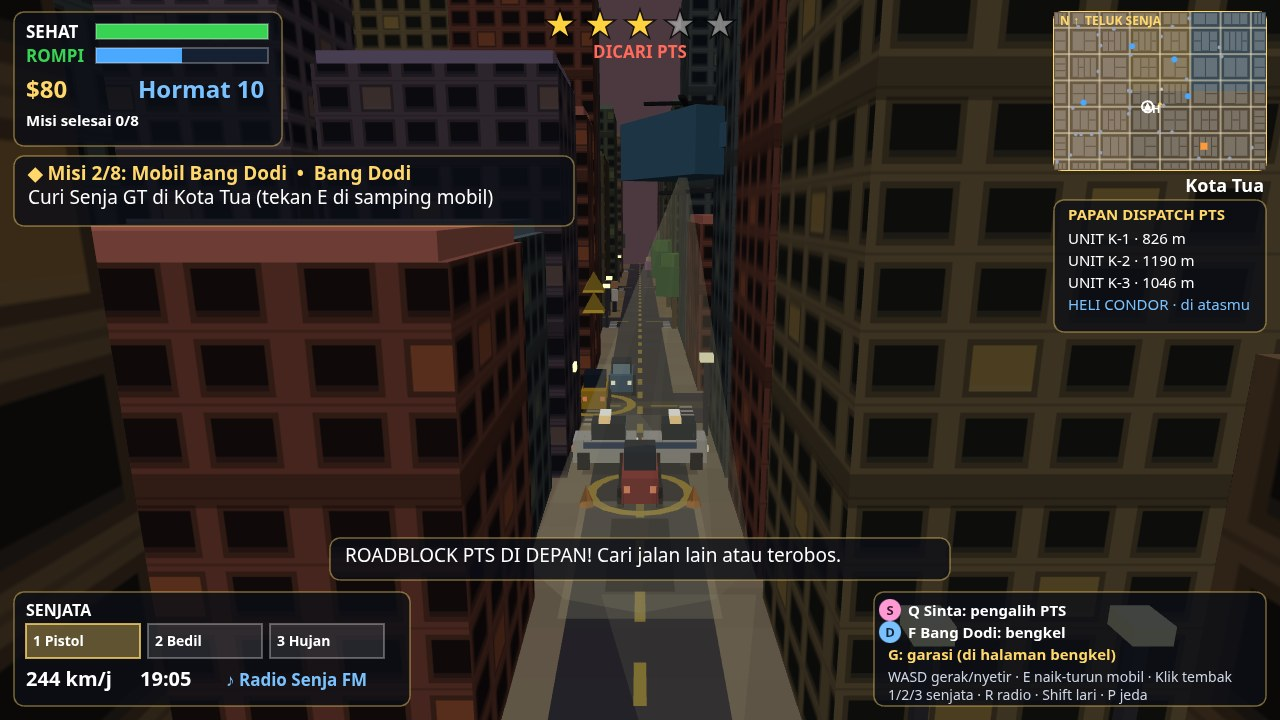
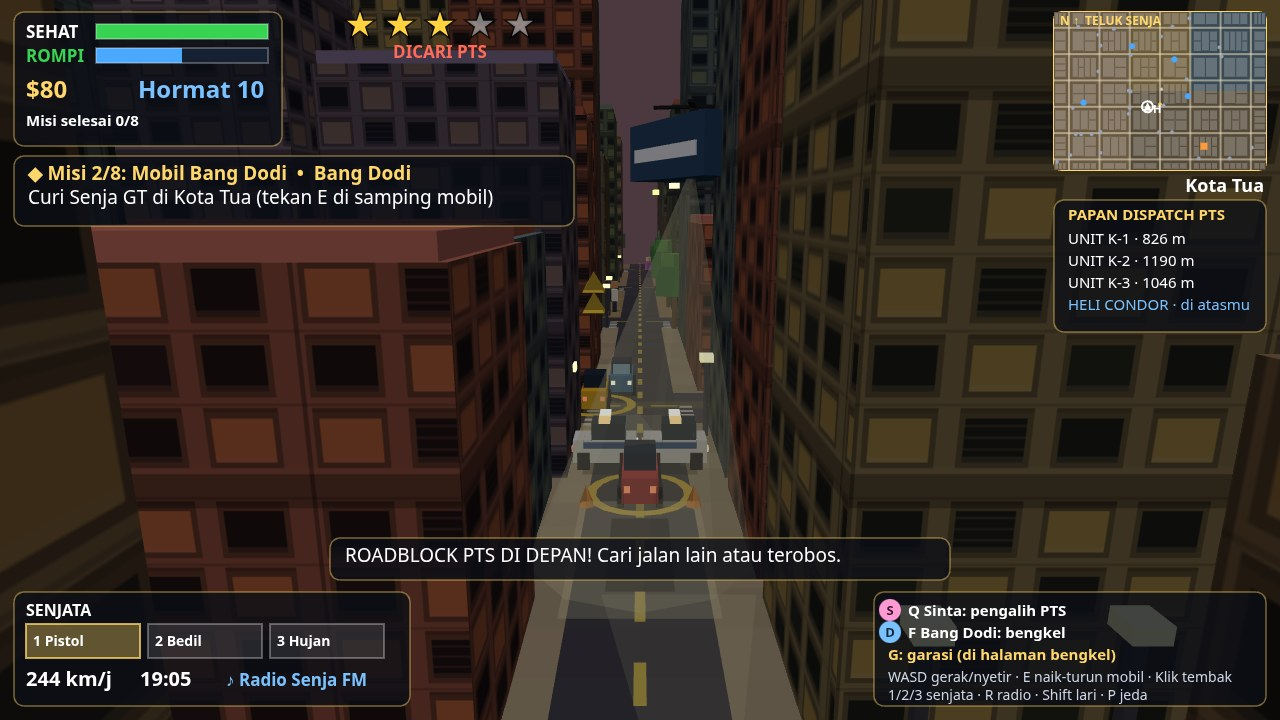
Polish 3: clearer helicopter silhouette, stars clear of heli, guard health bars, facade variety, clean cover staging

diff --git a/game/src/gl3d.js b/game/src/gl3d.js
@@ -250,20 +250,44 @@ function makeFacadeTexture(gl) {
   ctx.fillRect(0, 0, 256, 256);
   // Large windows: 4 columns x 5 rows per tile. One tile spans a wide
   // facade (see Geo.box UV repeats), so windows read at building scale
-  // instead of dissolving into a dot grid.
+  // instead of dissolving into a dot grid. Each pane gets a
+  // deterministic variant — lit in warm or cool tones, blinds, or a
+  // faint tint — so repeated tiles do not look identical.
+  const litTones = ['#ffe9a8', '#bcd9ff', '#ffcf7a'];
   for (let r = 0; r < 5; r++) {
     for (let c = 0; c < 4; c++) {
-      const lit = (c === 1 && r === 1) || (c === 2 && r === 3);
+      const idx = r * 4 + c;
+      const lit = (idx * 7) % 5 < 2;
+      const x0 = 6 + c * 62; const y0 = 4 + r * 48;
       ctx.fillStyle = '#8d867a';
-      ctx.fillRect(6 + c * 62, 4 + r * 48, 48, 38);
-      ctx.fillStyle = lit ? '#ffe9a8' : '#2b313c';
-      ctx.fillRect(10 + c * 62, 8 + r * 48, 40, 30);
+      ctx.fillRect(x0, y0, 48, 38);
+      ctx.fillStyle = lit ? litTones[(idx * 3) % 3] : '#2b313c';
+      ctx.fillRect(x0 + 4, y0 + 4, 40, 30);
+      if (!lit && idx % 4 === 1) {
+        // Blinds: thin dark slats across a dark pane.
+        ctx.fillStyle = 'rgba(255,255,255,0.18)';
+        ctx.fillRect(x0 + 4, y0 + 12, 40, 2);
+        ctx.fillRect(x0 + 4, y0 + 20, 40, 2);
+        ctx.fillRect(x0 + 4, y0 + 28, 40, 2);
+      } else if (!lit && idx % 3 === 0) {
+        ctx.fillStyle = 'rgba(255,255,255,0.07)';
+        ctx.fillRect(x0 + 4, y0 + 4, 40, 30);
+      }
+      // Glass highlight + sill.
       ctx.fillStyle = 'rgba(255,255,255,0.25)';
-      ctx.fillRect(10 + c * 62, 8 + r * 48, 40, 4);
+      ctx.fillRect(x0 + 4, y0 + 4, 40, 4);
+      ctx.fillStyle = '#7a7264';
+      ctx.fillRect(x0, y0 + 38, 48, 3);
     }
     ctx.fillStyle = 'rgba(0,0,0,0.16)';
     ctx.fillRect(0, r * 48 + 46, 256, 2);
   }
+  // Panel division at the tile edge + a cornice band at the top, so
+  // wide facades read as separate panels instead of one flat wall.
+  ctx.fillStyle = 'rgba(0,0,0,0.35)';
+  ctx.fillRect(0, 0, 3, 256);
+  ctx.fillStyle = 'rgba(255,255,255,0.14)';
+  ctx.fillRect(0, 0, 256, 5);
   // Darker ground-floor band.
   ctx.fillStyle = 'rgba(0,0,0,0.28)';
   ctx.fillRect(0, 232, 256, 24);
@@ -343,8 +367,14 @@ function buildStatic(city) {
     geo.box(cx, h3 / 2, cz, w3, h3, d3, 0, tinted, {
       tex: true, uvU: Math.max(1, Math.round(b.w / 130)), uvV: Math.max(1, Math.round((h3 * SCALE) / 130)),
     });
-    // Roof parapet: a thin lighter slab on top.
-    geo.box(cx, h3 + 0.12, cz, w3 * 0.96, 0.24, d3 * 0.96, 0, shade(tinted, 1.25), {});
+    // Roof parapet: a thin slab on top. Its tone varies per building —
+    // some pale, some dark, a third brick-red — so neighbouring
+    // rooftops do not read as one identical trim.
+    const roofH = hash2(b.y | 0, b.x | 0);
+    const parapet = roofH > 0.66
+      ? [0.62 * tint, 0.30 * tint, 0.24 * tint]
+      : shade(tinted, 0.95 + roofH * 0.55);
+    geo.box(cx, h3 + 0.12, cz, w3 * 0.96, 0.24, d3 * 0.96, 0, parapet, {});
   }
   // Props.
   for (const pr of city.props) {
@@ -594,15 +624,25 @@ function drawCharacter(geo, trans, x, y, angle, shirt, skin, opt = {}) {
   geo.box(cx, 0.92 + bob, cz, 0.52, 0.62, 0.3, angle, s, {});
   geo.box(cx, 1.48 + bob, cz, 0.34, 0.34, 0.34, angle, sk, {});
   if (opt.aimAngle !== undefined) {
-    const ax = cx + Math.cos(opt.aimAngle) * 0.42; const az = cz + Math.sin(opt.aimAngle) * 0.42;
-    geo.box(ax, 1.0 + bob, az, 0.42, 0.1, 0.1, opt.aimAngle, [0.12, 0.12, 0.14], {});
+    // A longer, thicker aim arm plus a muzzle tip, so a guard's
+    // weapon reads at chase distance instead of vanishing.
+    const ax = cx + Math.cos(opt.aimAngle) * 0.46; const az = cz + Math.sin(opt.aimAngle) * 0.46;
+    geo.box(ax, 1.0 + bob, az, 0.56, 0.13, 0.13, opt.aimAngle, [0.10, 0.10, 0.12], {});
+    const tx = cx + Math.cos(opt.aimAngle) * 0.78; const tz = cz + Math.sin(opt.aimAngle) * 0.78;
+    geo.box(tx, 1.0 + bob, tz, 0.12, 0.12, 0.12, opt.aimAngle, [0.25, 0.25, 0.28], {});
   }
   if (opt.ring) geo.ring(cx, cz, 0.07, 0.55, 0.72, opt.ring, 0.95);
-  if (opt.healthBar !== undefined && opt.healthBar < 100) {
-    // Health bar floating above the head, facing the camera via billboard.
+  if (opt.healthBar !== undefined) {
+    // Health bar floating above the head, facing the camera via
+    // billboard. Guards always carry a visible bar (it shrinks as
+    // they take damage); a white frame, dark backing, and a bright
+    // fill make it read at chase distance.
     const right = opt.camRight || [1, 0, 0];
-    geo.billboard([cx, 1.95 + bob, cz], 0.8, 0.1, right, [0.35, 0.08, 0.08], 0.95);
-    geo.billboard([cx - (1 - opt.healthBar / 100) * 0.4, 1.95 + bob, cz], 0.8 * (opt.healthBar / 100), 0.1, right, [1, 0.3, 0.25], 0.95);
+    const by = 2.02 + bob;
+    const frac = Math.max(0, Math.min(1, opt.healthBar / 100));
+    geo.billboard([cx, by, cz], 1.24, 0.24, right, [0.95, 0.95, 0.95], 0.95);
+    geo.billboard([cx, by, cz], 1.12, 0.16, right, [0.25, 0.05, 0.05], 0.95);
+    geo.billboard([cx - (1 - frac) * 0.56, by, cz], Math.max(0.02, 1.12 * frac), 0.16, right, [1, 0.28, 0.20], 1);
   }
 }
 
@@ -614,19 +654,42 @@ function drawHelicopter(geo, trans, h, time, camRight) {
   // A bigger body scale makes it read at chase distance.
   const alt = 6.8;
   const k = 1.6; // body scale
-  const body = [0.22, 0.40, 0.52];
-  geo.box(cx, alt, cz, 2.4 * k, 0.85 * k, 1.0 * k, h.angle * 0.15, body, {});
-  geo.box(cx - Math.cos(h.angle * 0.15) * 1.9 * k, alt + 0.1, cz - Math.sin(h.angle * 0.15) * 1.9 * k, 1.5 * k, 0.3 * k, 0.3 * k, h.angle * 0.15, body, {});
-  geo.box(cx + Math.cos(h.angle * 0.15) * 0.7 * k, alt + 0.1, cz + Math.sin(h.angle * 0.15) * 0.7 * k, 0.5 * k, 0.5 * k, 0.7 * k, h.angle * 0.15, [0.55, 0.75, 0.88], {});
+  // Dark PTS livery with a white cheatline, so the helicopter reads as
+  // a police aircraft instead of a plain blue slab.
+  const body = [0.13, 0.24, 0.38];
+  const yaw = h.angle * 0.15;
+  const cy = Math.cos(yaw); const sy = Math.sin(yaw);
+  geo.box(cx, alt, cz, 2.4 * k, 0.85 * k, 1.0 * k, yaw, body, {});
+  // White cheatline along both flanks.
+  geo.box(cx, alt - 0.08, cz, 2.0 * k, 0.2 * k, 1.04 * k, yaw, [0.92, 0.92, 0.95], {});
+  // Dark cockpit windshield at the nose.
+  geo.box(cx + cy * 0.95 * k, alt + 0.12, cz + sy * 0.95 * k, 0.5 * k, 0.45 * k, 0.72 * k, yaw, [0.07, 0.11, 0.16], { emis: 0.3 });
+  // Tail boom, tail fin, and a small tail rotor. The boom is thick
+  // and overlaps the body so the tail reads as one connected
+  // silhouette instead of a floating slab; a mast joins the rotor
+  // to the roof.
+  geo.box(cx - cy * 1.7 * k, alt + 0.1, cz - sy * 1.7 * k, 1.25 * k, 0.42 * k, 0.42 * k, yaw, [0.20, 0.34, 0.50], {});
+  geo.box(cx - cy * 2.25 * k, alt + 0.45, cz - sy * 2.25 * k, 0.55 * k, 0.95 * k, 0.12 * k, yaw, [0.10, 0.18, 0.30], {});
+  geo.box(cx - cy * 2.25 * k, alt + 0.75, cz - sy * 2.25 * k, 0.1 * k, 0.12 * k, 1.0 * k, yaw, [0.10, 0.18, 0.30], {});
+  geo.box(cx - cy * 2.3 * k, alt + 0.5, cz - sy * 2.3 * k, 0.06, 0.5 * k, 0.06, yaw + Math.PI / 2, [0.12, 0.12, 0.14], {});
+  geo.box(cx, alt + 0.55 * k, cz, 0.15, 0.35, 0.15, yaw, [0.12, 0.12, 0.14], {});
+  // Skid struts + skids.
+  geo.box(cx - 0.3 * k, alt - 0.45 * k, cz, 0.08, 0.4 * k, 0.08, yaw, [0.15, 0.15, 0.17], {});
+  geo.box(cx + 0.3 * k, alt - 0.45 * k, cz, 0.08, 0.4 * k, 0.08, yaw, [0.15, 0.15, 0.17], {});
+  geo.box(cx - 0.3 * k, alt - 0.62 * k, cz, 1.6 * k, 0.08, 0.08, yaw, [0.15, 0.15, 0.17], {});
+  geo.box(cx + 0.3 * k, alt - 0.62 * k, cz, 1.6 * k, 0.08, 0.08, yaw, [0.15, 0.15, 0.17], {});
+  // Navigation lights: red on the left skid tip, green on the right.
+  const px = -sy; const pz = cy;
+  geo.box(cx + px * 0.62 * k, alt - 0.62 * k, cz + pz * 0.62 * k, 0.12, 0.12, 0.12, yaw, [1, 0.15, 0.1], { emis: 1 });
+  geo.box(cx - px * 0.62 * k, alt - 0.62 * k, cz - pz * 0.62 * k, 0.12, 0.12, 0.12, yaw, [0.2, 1, 0.35], { emis: 1 });
+  // Bright spotlight emitter under the nose, feeding the cone below.
+  geo.box(cx + cy * 0.6 * k, alt - 0.5 * k, cz + sy * 0.6 * k, 0.2, 0.14, 0.2, yaw, [1, 0.97, 0.8], { emis: 1 });
   // Rotor, spinning. Short blades, kept inside the body's silhouette:
   // a full-length blade swept up across the wanted stars in the
   // chase frame.
   const ra = h.rotor;
   geo.box(cx, alt + 0.62 * k, cz, 1.2 * k, 0.07, 0.14, ra, [0.1, 0.1, 0.12], {});
   geo.box(cx, alt + 0.62 * k, cz, 0.14, 0.07, 1.2 * k, ra, [0.1, 0.1, 0.12], {});
-  // Skids.
-  geo.box(cx - 0.3 * k, alt - 0.62 * k, cz, 1.6 * k, 0.08, 0.08, h.angle * 0.15, [0.15, 0.15, 0.17], {});
-  geo.box(cx + 0.3 * k, alt - 0.62 * k, cz, 1.6 * k, 0.08, 0.08, h.angle * 0.15, [0.15, 0.15, 0.17], {});
   // Searchlight cone + ground pool: narrower and a touch softer now
   // that the helicopter flies lower, so the beam reads without
   // washing out the street.

diff --git a/game/src/shots.js b/game/src/shots.js
@@ -68,6 +68,34 @@ function stageCover(state) {
     car.speed = 300;
   });
   runSteps(state, 70, ['w'], { x: 1050, y: 300 });
+  // Re-ring the patrol cars one last time with flank-only angles and
+  // settle them for a few steps: the chase AI otherwise drifts a car
+  // directly behind the player, where the camera clips it against the
+  // bottom-left HUD panel. Clear pedestrians out of the camera's
+  // foreground too, so no bystander looms over the frame edge.
+  {
+    const heading2 = state.player.car ? state.player.car.angle : 0;
+    const flank2 = [0.5, -0.55, 1.15, -1.2, 2.05, -2.05];
+    state.police.forEach((car, i) => {
+      const a = heading2 + flank2[i % flank2.length];
+      car.x = state.player.x + Math.cos(a) * 400;
+      car.y = state.player.y + Math.sin(a) * 400;
+      car.speed = 300;
+    });
+    const fx = Math.cos(heading2); const fz = Math.sin(heading2);
+    for (const ped of state.peds) {
+      if (ped.guard) continue;
+      const dx = ped.x - state.player.x; const dy = ped.y - state.player.y;
+      const d = Math.hypot(dx, dy);
+      const along = dx * fx + dy * fz;
+      if (d < 330 && along < 90) {
+        const side = (dx * -fz + dy * fx) >= 0 ? 1 : -1;
+        ped.x = state.player.x + fx * 130 - fz * side * 300;
+        ped.y = state.player.y + fz * 130 + fx * side * 300;
+      }
+    }
+    runSteps(state, 4, ['w'], { x: 1050, y: 300 });
+  }
   return state;
 }
 

diff --git a/game/src/hud.js b/game/src/hud.js
@@ -70,14 +70,15 @@ export function drawHud(ctx, state, vw, vh) {
   const trackerW = Math.min(560, Math.max(320, vw - 560));
   const trackerX = 14;
   const trackerY = 156;
-  // Stars sit high and compact so the helicopter body, which flies
-  // just below them in the top-centre sky, never covers the label.
-  stars(ctx, vw / 2, 36, state.wanted);
+  // Stars sit left of centre so the helicopter body, which flies in
+  // the top-centre sky above the street, never covers the label.
+  const starCx = vw / 2 - 200;
+  stars(ctx, starCx, 36, state.wanted);
   if (state.wanted > 0) {
     ctx.font = 'bold 17px system-ui, sans-serif';
     ctx.fillStyle = '#ff6a5a';
     ctx.textAlign = 'center';
-    ctx.fillText('DICARI PTS', vw / 2, 58);
+    ctx.fillText('DICARI PTS', starCx, 58);
   }
   const step = currentStep(state);
   if (state.mission && step) {

diff --git a/game/src/police.js b/game/src/police.js
@@ -96,8 +96,8 @@ export function updatePolice(state, dt) {
     // over the blocks, and high altitudes pushed it off the top edge
     // or behind the HUD banner).
     const heading = player.car ? player.car.angle : player.angle;
-    const tx = player.x + Math.cos(heading) * 330 - Math.sin(heading) * 60;
-    const ty = player.y + Math.sin(heading) * 330 + Math.cos(heading) * 60;
+    const tx = player.x + Math.cos(heading) * 355 - Math.sin(heading) * 70;
+    const ty = player.y + Math.sin(heading) * 355 + Math.cos(heading) * 70;
     h.x += (tx - h.x) * Math.min(1, dt * 2.8);
     h.y += (ty - h.y) * Math.min(1, dt * 2.8);
     h.lightX += (player.x - h.lightX) * Math.min(1, dt * 4);
